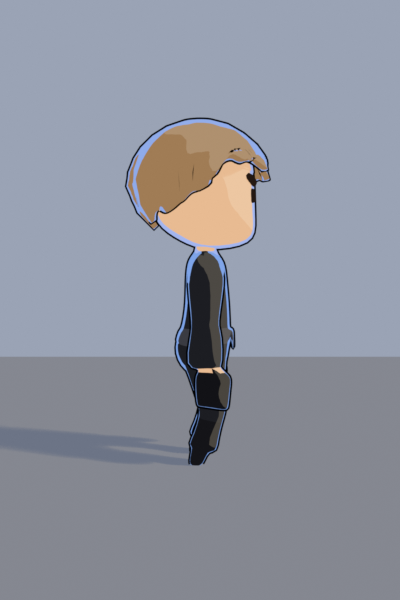
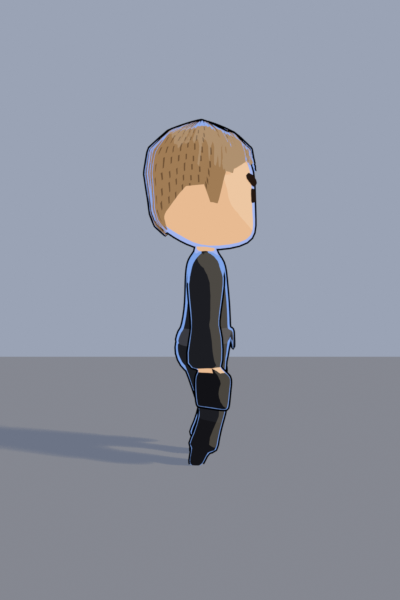
Luke hair v3 (owner's 5 notes): conforms to the skull (no rim), crown volume, side part + swept fringe, sideburns, tapered nape, strand grooves + darker strand lines; pack headband removed

Changed region(s): [[0.3, 0.18, 0.69, 0.39]]

diff --git a/kit/starwars.py b/kit/starwars.py
@@ -405,53 +405,82 @@ def build_vader(col: bpy.types.Collection | None = None) -> Q.QChar:
 
 
 def luke_hair(qc: Q.QChar, mat, col=None) -> bpy.types.Object:
-    """Luke's hair (owner refs 2026-09-26: LEGO Luke, ROTJ art): a rounded light-brown cap over the head that covers
-    the ears, a fringe swept to his right from a part on his left, down to the nape at the back. Built at rest from the
-    head bounds and parented to the Head bone."""
+    """Luke's hair v3 (owner notes 2026-09-26: 'real hair, not a cap'): laid ON the skull (ray-cast from the head centre
+    to the head mesh), no rim: the offset thins to ~0 at the hairline; volume on the crown; side part on his left with
+    the fringe sweeping across the forehead to his right; sideburns in front of the ears, hair around the ears, a low
+    tapered nape with tufts; strand lines = grooves + darker strand faces that follow the combing flow."""
+    import bmesh
+    from mathutils.bvhtree import BVHTree
     lo, hi = _head_bounds(qc)
     c, h = (lo + hi) / 2, (hi - lo) / 2
+    neck = qc.arm.matrix_world @ qc.arm.data.bones["Head"].head_local
+    mw = qc.body.matrix_world
+    vs = [mw @ v.co for v in qc.body.data.vertices]
+    polys = [p.vertices[:] for p in qc.body.data.polygons if all(vs[i].z > neck.z + 0.02 for i in p.vertices)]
+    tree = BVHTree.FromPolygons(vs, polys)
+    strand = L.toon2("luke_hair_strand", "#6f5236")          # the drawn strand lines
+    PART = math.radians(58)                                    # the part: front, on his left (world +x side)
 
-    def d(phi):
+    def dfront(phi):
         return abs((phi - math.pi / 2 + math.pi) % (2 * math.pi) - math.pi)
 
-    def edge(phi):                                             # the hair's lower edge height, in head half-sizes
-        a = d(phi)
-        front = 0.26 + 0.22 * math.cos(phi)                     # diagonal swept fringe: low on his right (world -x), high at the part
-        if a < math.radians(62):
-            return front
-        if a < math.radians(105):                               # temples -> over the ears
-            t = (a - math.radians(62)) / math.radians(43)
-            return front + (-0.38 - front) * t
-        t = (a - math.radians(105)) / math.radians(75)          # ears -> nape
-        return -0.38 + (-0.72 + 0.38) * t
+    def interp(x, table):
+        for (x0, y0), (x1, y1) in zip(table, table[1:]):
+            if x0 <= x <= x1:
+                return y0 + (y1 - y0) * (x - x0) / (x1 - x0)
+        return table[-1][1]
 
-    def radius(z):                                             # follow the round head, with volume on top
-        if z >= 0:
-            return 1.17 * math.sqrt(max(0.0, 1.0 - (z / 1.30) ** 2))
-        return 1.10 * math.sqrt(max(0.25, 1.0 - (z / 1.10) ** 2))
+    def edge_z(phi):                                           # hairline height (head half-sizes), around the head
+        a = math.degrees(dfront(phi))
+        z = interp(a, [(0, 0.34), (40, 0.30), (58, 0.12), (68, 0.16), (76, -0.42), (84, -0.40), (90, -0.08),
+                       (108, -0.10), (125, -0.40), (150, -0.72), (180, -0.80)])
+        if a < 60:                                             # fringe: low on his right, high at the part
+            z += 0.10 * math.cos(phi)
+            z -= 0.05 * max(0.0, math.cos(9 * (phi - PART))) ** 4   # small fringe tufts
+        elif a > 110:                                          # nape: tapered chunks
+            z -= 0.10 * max(0.0, math.cos(7 * phi)) ** 3
+        return max(-0.95, min(0.95, z))
 
-    LOCKS, TWIST = 11, 0.55                                    # hair locks around the head; how much they sweep sideways
+    def flow(phi, t):                                          # combing: strands sweep from the part across the forehead
+        front = max(0.0, 1.0 - dfront(phi) / math.radians(80))
+        return phi + (0.9 * front + 0.25) * t
 
-    def lock(phi, u):                                          # 1 on a lock's ridge, 0 in the groove between locks
-        return (0.5 + 0.5 * math.cos(LOCKS * (phi + TWIST * u))) ** 2
-
-    def row(u, z_of):                                          # u: 0 at the crown -> 1 at the tips
-        def f(phi):
-            z = z_of(phi)
-            if u >= 0.99:                                      # the tips: each lock ends in a point, lower than the grooves
-                z -= 0.12 * lock(phi, u)
-            tuck = 0.05 * max(0.0, (u - 0.45) / 0.55) * max(0.0, 1.0 - d(phi) / math.radians(62))
-            bump = 0.07 * (u ** 0.8) * lock(phi, u)             # locks stand out more toward the tips
-            return (radius(z) * (1.0 + bump) - tuck, z)
-        return f
-
-    rows = [row(0.0, lambda phi: 1.30)]
-    for u, z in ((0.06, 1.26), (0.16, 1.15), (0.28, 0.98), (0.40, 0.76)):
-        rows.append(row(u, lambda phi, z=z: z))
-    for tt in (0.0, 0.2, 0.4, 0.6, 0.8, 1.0):
-        rows.append(row(0.45 + 0.55 * tt, lambda phi, tt=tt: 0.55 + (edge(phi) - 0.55) * tt))
-    o = _lathe("luke_hair", rows, 176, lambda i, phi: True, mat, col, c + Vector((0, -0.01, 0.0)), h.x, h.y, h.z)
-    o.modifiers["solid"].thickness = 0.03
+    NP, NT = 240, 34
+    bm = bmesh.new()
+    grid = []
+    for j in range(NP):
+        phi = 2 * math.pi * j / NP
+        th_e = math.acos(edge_z(phi))
+        col_ = []
+        for i in range(NT + 1):
+            t = i / NT
+            th = max(1e-3, th_e * t)
+            dvec = Vector((math.sin(th) * math.cos(phi) * h.x, math.sin(th) * math.sin(phi) * h.y, math.cos(th) * h.z))
+            dvec.normalize()
+            hit = tree.ray_cast(c + dvec * 1.0, -dvec)              # from outside: the OUTERMOST surface (over the band)
+            r = (hit[0] - c).length if hit[0] is not None else h.x
+            f = flow(phi, t)
+            lines = (0.5 + 0.5 * math.cos(46 * f)) ** 3               # fine strands
+            tufts = (0.5 + 0.5 * math.cos(9 * f)) ** 2                # chunkier locks
+            part = math.exp(-((dfront(phi) - dfront(PART)) / 0.05) ** 2) * (1 if math.cos(phi) > 0 else 0) * max(0.0, 1 - 1.4 * t)
+            lift = (0.006 + 0.10 * (1 - t) ** 1.3 * (0.55 + 0.45 * math.cos(th))) * (1 - 0.6 * part)
+            lift += 0.010 * tufts * min(1.0, 2 * t) - 0.004 * lines
+            col_.append((bm.verts.new(c + dvec * (r + lift)), lines))
+        grid.append(col_)
+    for j in range(NP):
+        a, b = grid[j], grid[(j + 1) % NP]
+        for i in range(NT):
+            f = bm.faces.new((a[i][0], b[i][0], b[i + 1][0], a[i + 1][0]))
+            f.material_index = 1 if (a[i][1] + b[i][1]) / 2 > 0.72 and i > 1 else 0
+    bmesh.ops.remove_doubles(bm, verts=bm.verts, dist=1e-4)
+    bmesh.ops.recalc_face_normals(bm, faces=bm.faces)
+    me = bpy.data.meshes.new("luke_hair")
+    bm.to_mesh(me); bm.free()
+    for p in me.polygons:
+        p.use_smooth = True
+    me.materials.append(mat); me.materials.append(strand)
+    o = bpy.data.objects.new("luke_hair", me)
+    C.link(o, col)
     Q.attach_part(qc, o, "Head", "hair")
     return o
 
@@ -475,7 +504,7 @@ def build_luke(col: bpy.types.Collection | None = None) -> Q.QChar:
     import bmesh
     bm = bmesh.new(); bm.from_mesh(qc.body.data)
     hi_ = list(qc.body.data.materials).index(band)
-    tails = [f for f in bm.faces if f.material_index == hi_ and f.calc_center_median().z > 2.98]
+    tails = [f for f in bm.faces if f.material_index == hi_]      # the whole headband (ring + tails): hair goes on the skull
     bmesh.ops.delete(bm, geom=tails, context="FACES")
     bm.to_mesh(qc.body.data); bm.free(); qc.body.data.update()
     cast.shape_arms(qc)
